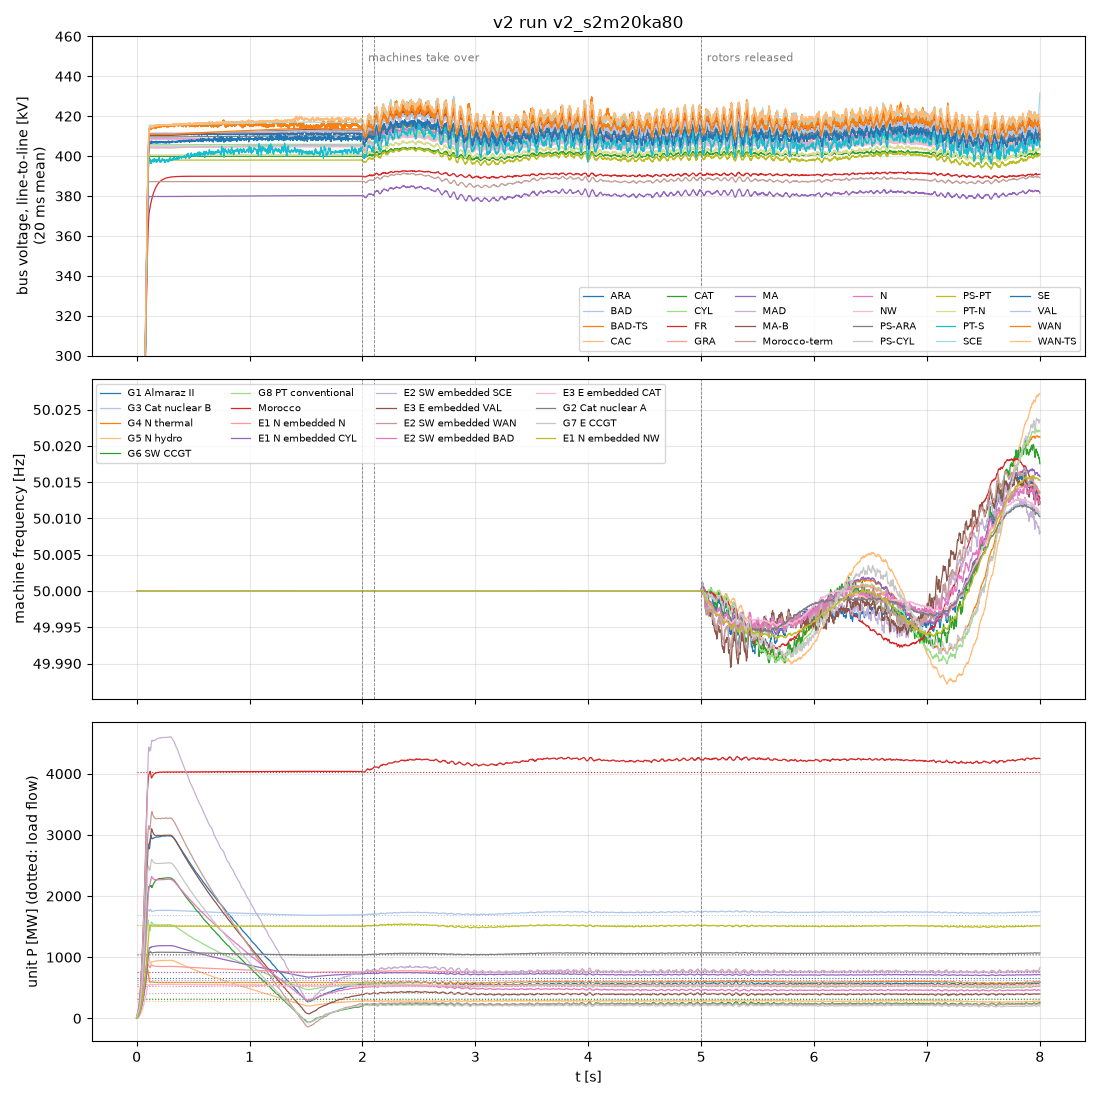
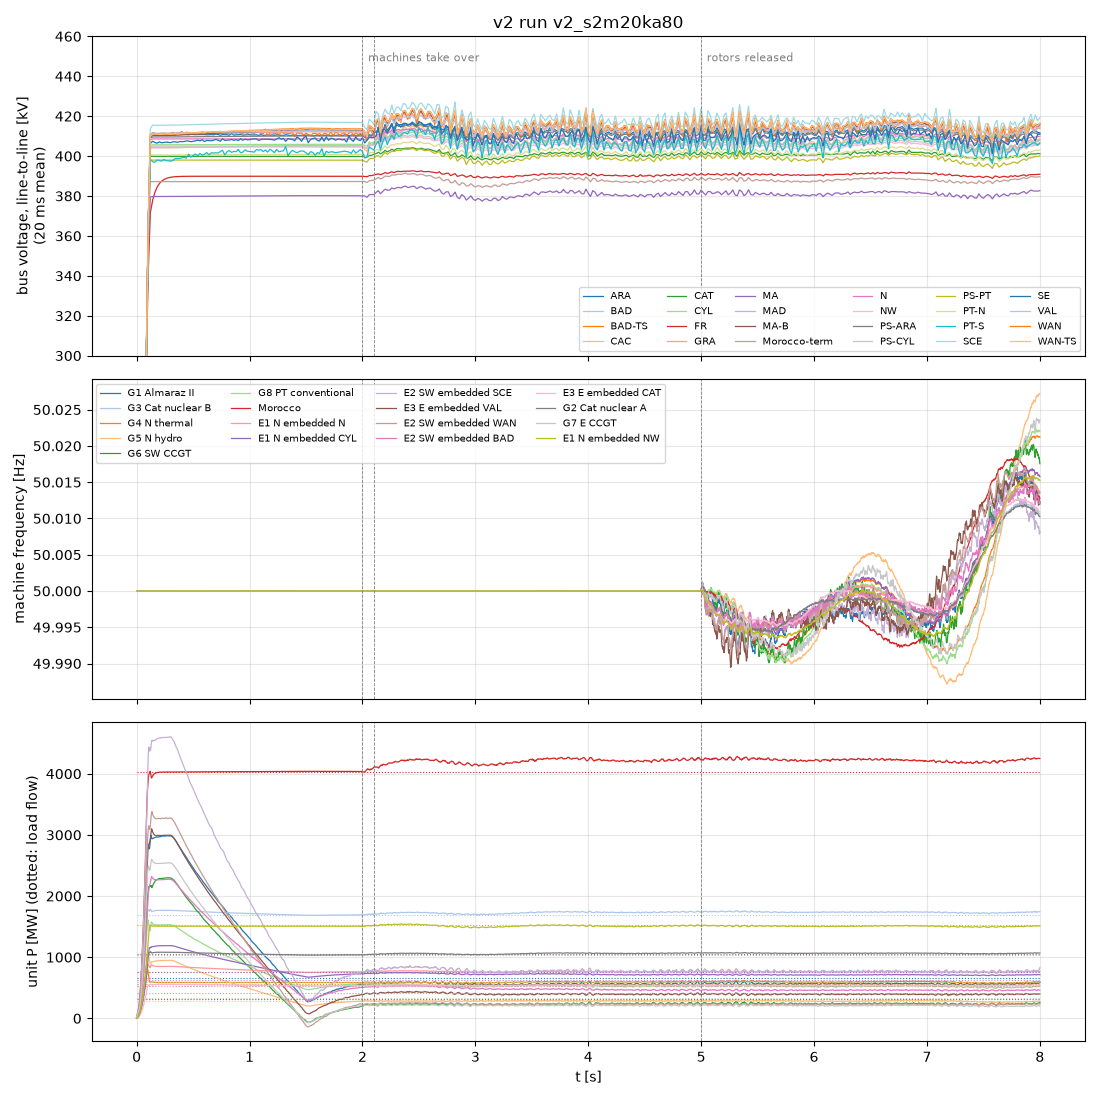
pscad v2: pmu.py (1-cycle DFT positive-sequence phasor, PMU frequency/RoCoF); plot_v2 measures bus V like a PMU

Changed region(s): [[0.1236, 0.0927, 0.9582, 0.3091]]

diff --git a/iberia_eq/pscad/pmu.py b/iberia_eq/pscad/pmu.py
@@ -1,0 +1,44 @@
+r"""PMU-style measurement of PSCAD phase-voltage channels (S30 sec 13).
+
+Real comparisons with [FR] use PMU / SCADA data, never raw waveforms: a PMU estimates the 50 Hz phasor over whole
+cycles (DFT), which rejects harmonics and converter switching ripple, and derives frequency from the phasor angle.
+This module does the same on the model's 3-phase channels so that model curves are measured like the report's.
+
+  pmu(t, va, vb, vc, f0=50.0, cycles=1, rate=50.0) -> dict(t, V, ang, f, rocof)
+    - positive-sequence phasor by a recursive full-cycle DFT window of `cycles` cycles at f0
+      (cycles=1: P-class-like response; cycles=2..4: closer to M-class filtering);
+    - V: positive-sequence magnitude in line-to-line rms units of the input (input in kV phase-to-ground instantaneous
+      -> kV LL rms);
+    - ang: unwrapped angle (rad); f = f0 + d(ang)/dt / 2 pi, smoothed over one more window; rocof = df/dt;
+    - output decimated to `rate` frames per second (50 = a typical PMU reporting rate).
+Usage in scripts: from pmu import pmu.
+"""
+import numpy as np
+
+A = np.exp(2j * np.pi / 3)
+
+def _window_mean(x, n):
+    c = np.cumsum(np.insert(x, 0, 0.0)); y = np.empty_like(x)
+    y[n - 1:] = (c[n:] - c[:-n]) / n; y[:n - 1] = y[n - 1]
+    return y
+
+def pmu(t, va, vb, vc, f0=50.0, cycles=1, rate=50.0):
+    dt = t[1] - t[0]; n = int(round(cycles / (f0 * dt)))
+    rot = np.exp(-1j * 2 * np.pi * f0 * t)
+    vpos = (va + A * vb + A * A * vc) / 3.0                       # instantaneous positive-sequence space vector
+    ph = _window_mean(vpos * rot, n)                               # full-cycle DFT of the positive sequence
+    # balanced set va = Vp cos(wt+d): vpos*rot averages to Vp/2 e^{jd}; LL rms = Vp*sqrt(3)/sqrt(2)
+    Vll = 2.0 * np.abs(ph) * np.sqrt(3.0) / np.sqrt(2.0)
+    ang = np.unwrap(np.angle(ph))
+    f = f0 + _window_mean(np.gradient(ang, dt), n) / (2 * np.pi)
+    rocof = _window_mean(np.gradient(f, dt), n)
+    k = max(1, int(round(1.0 / (rate * dt)))); s = slice(n - 1, None, k)
+    return dict(t=t[s], V=Vll[s], ang=ang[s], f=f[s], rocof=rocof[s])
+
+if __name__ == "__main__":                                         # self-test on a synthetic signal with ripple
+    t = np.arange(0, 1.0, 20e-6); f = 49.8; Vp = 400 * np.sqrt(2 / 3)
+    w = 2 * np.pi * f; rip = 0.05 * Vp * np.cos(2 * np.pi * 2700 * t)
+    va, vb, vc = (Vp * np.cos(w * t + p) + rip for p in (0, -2 * np.pi / 3, 2 * np.pi / 3))
+    r = pmu(t, va, vb, vc)
+    m = r["t"] > 0.2
+    print(f"V {r['V'][m].mean():.2f} kV (400), f {r['f'][m].mean():.4f} Hz (49.8), ripple in V {np.ptp(r['V'][m]):.2f} kV")

diff --git a/iberia_eq/pscad/plot_v2.py b/iberia_eq/pscad/plot_v2.py
@@ -2,13 +2,14 @@ r"""Readable figures of a v2 run (S30 sec 13): smoothed bus voltages, machine fr
 
 usage: python iberia_eq\pscad\plot_v2.py <tag> [--ref <tag2>] [--build build_v2.out] [--t1 8]
 Writes iberia_eq\pscad\figs\plot_<tag>.png (and plot_<tag>_vs_<tag2>.png with --ref: mean bus V and frequency band of
-both runs on the same axes). Bus V is the line-to-line rms from the 3 phases, averaged over 20 ms (one cycle) to remove
-the converter switching ripple. Units are matched to the build-log unit list as in read_v2.py, over the last 1 s.
+both runs on the same axes). Bus V is measured like a PMU (pmu.py: one-cycle DFT positive-sequence
+phasor, 50 frames/s), which rejects the converter switching ripple as the report's PMU/SCADA data do. Units are matched to the build-log unit list as in read_v2.py, over the last 1 s.
 """
 import argparse, os, re, sys
 import numpy as np
 sys.path.insert(0, os.path.dirname(os.path.abspath(__file__)))
 from legacy_out import load
+from pmu import pmu
 from scipy.optimize import linear_sum_assignment
 import matplotlib; matplotlib.use("Agg"); import matplotlib.pyplot as plt
 
@@ -23,7 +24,8 @@ def run(tag):
     vb = {}
     for key in c:
         m = re.match(r"V_(.+)\[1\]$", key)
-        if m: b = m.group(1); vb[b] = sm(np.sqrt(sum(c[f"V_{b}[{j}]"] ** 2 for j in (1, 2, 3))))
+        if m:                                   # PMU-style 1-cycle DFT positive-sequence magnitude (pmu.py), S30 sec 13
+            b = m.group(1); r = pmu(t, *(c[f"V_{b}[{j}]"] for j in (1, 2, 3))); vb[b] = np.interp(t, r["t"], r["V"])
     inst = sorted({key.split(":")[0] for key in c if key.startswith("SyncUnit(")}, key=lambda s: int(re.search(r"\d+", s).group()))
     f = {i: c[f"{i}:Wspd"] / (2 * np.pi) for i in inst}
     return t, c, vb, inst, f, sm
